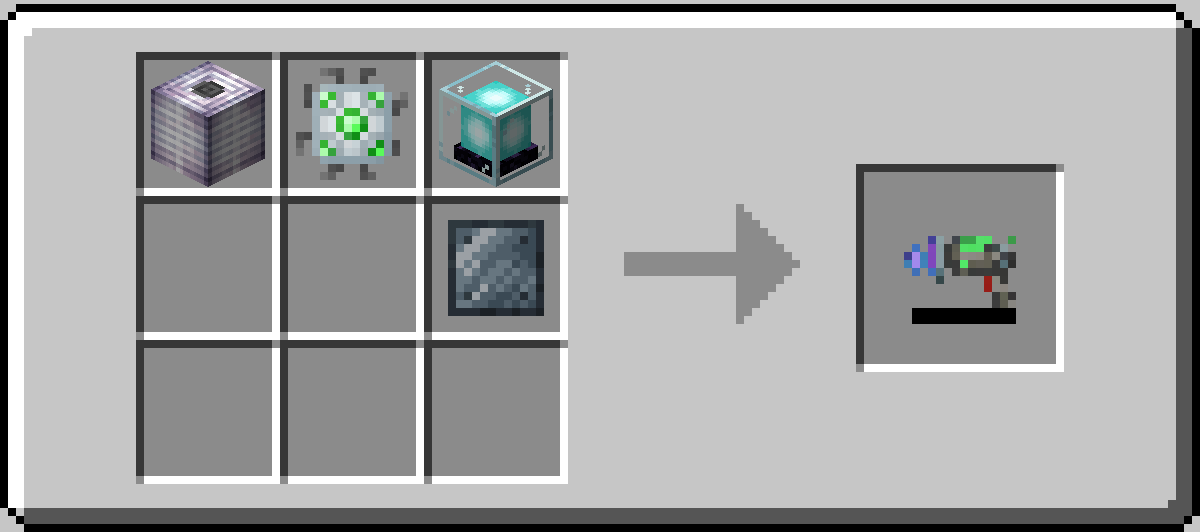
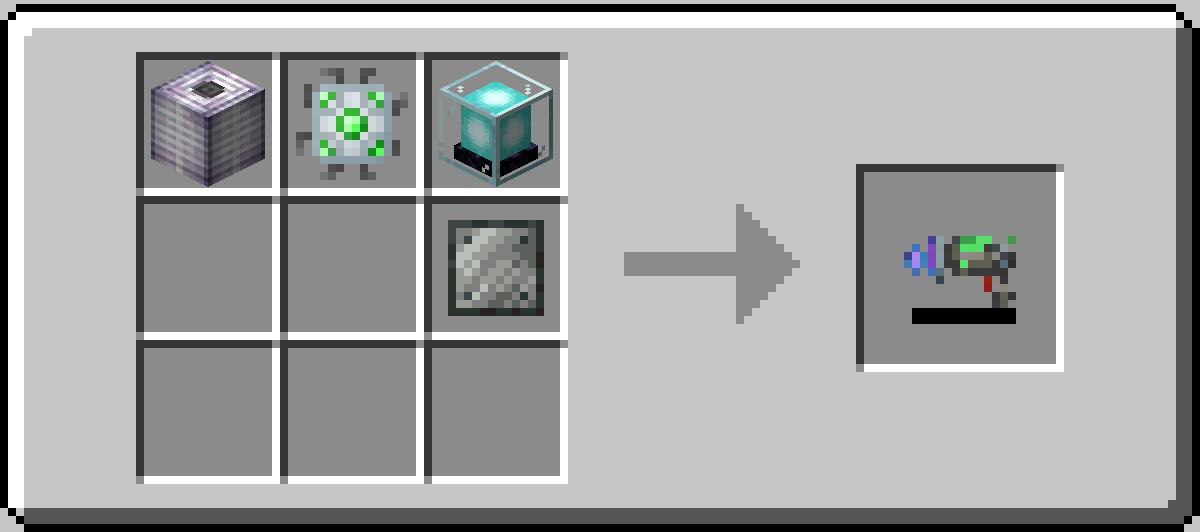
chore: change shrink ray recipe from tungstensteel to iridium alloy plate

Changed region(s): [[0.37, 0.4211, 0.4625, 0.6015]]

diff --git a/README.md b/README.md
@@ -293,7 +293,7 @@ _Look at the config file for more detailed settings and adjustments._
 - 1x Fusion Coil
 - 1x Data Storage Chip
 - 1x Beacon
-- 1x Tungstensteel Plate
+- 1x Iridium Alloy Plate
 
 ![Shrink Ray Recipe](screenshots/shrink_ray_recipe.png)
 
